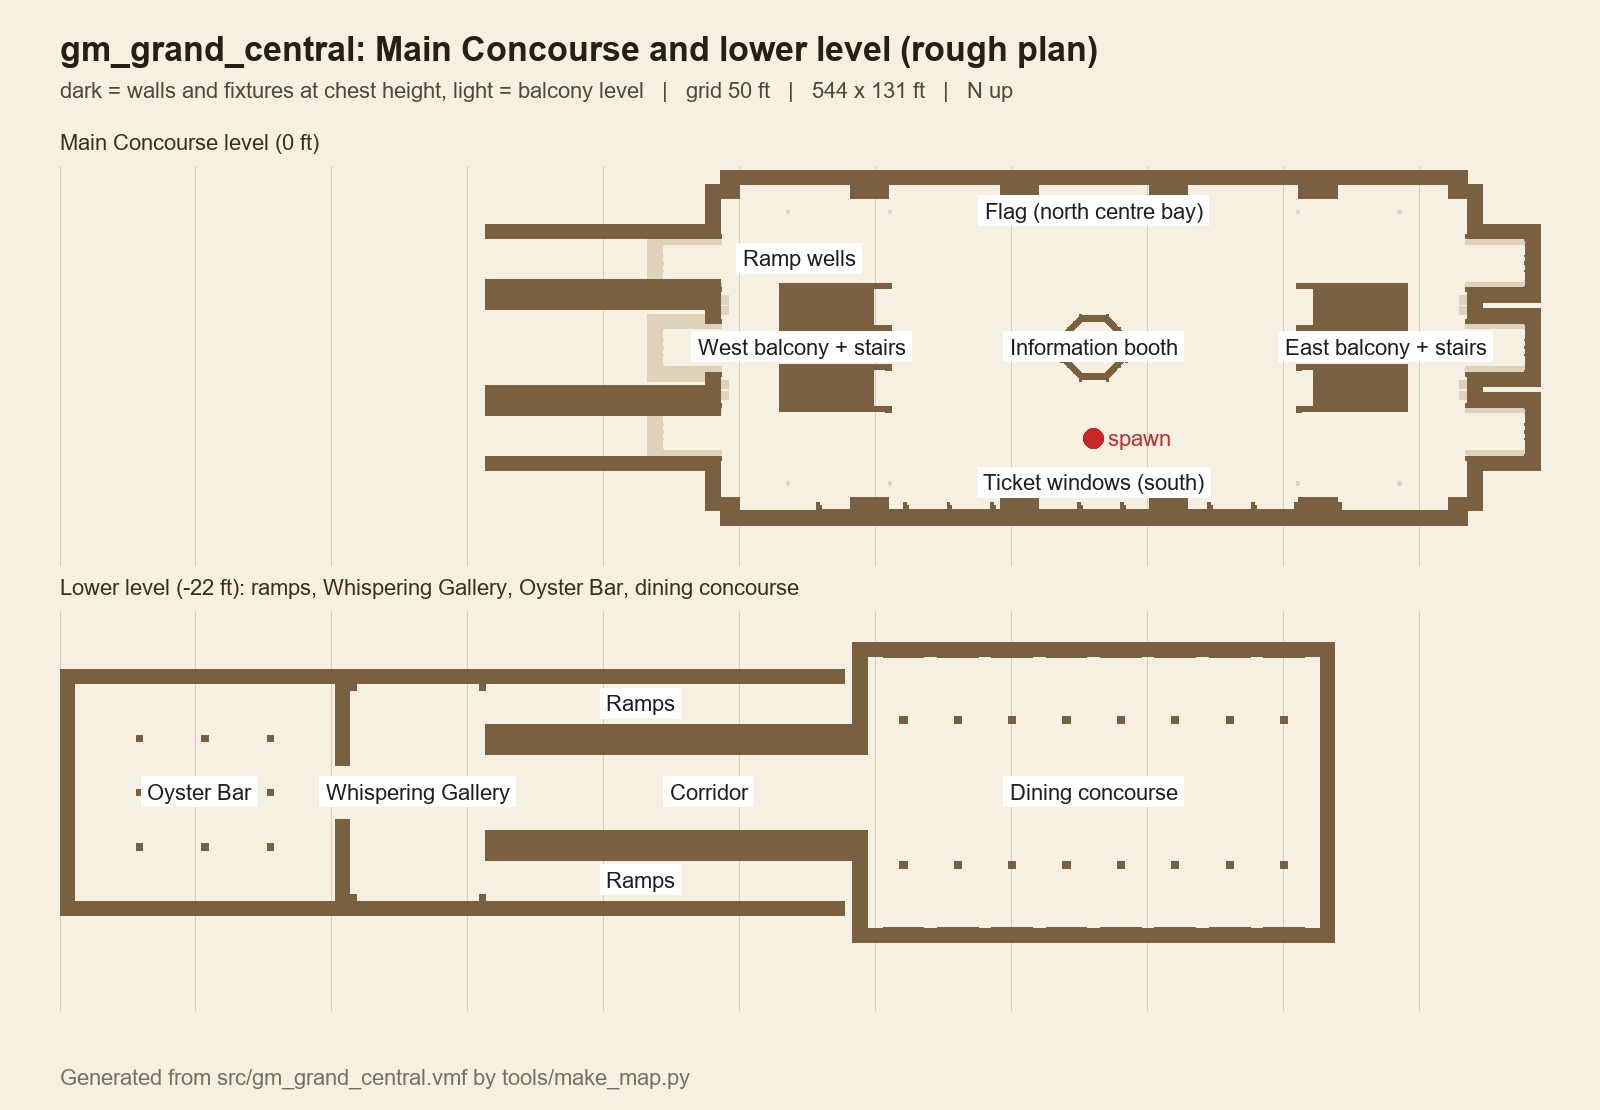
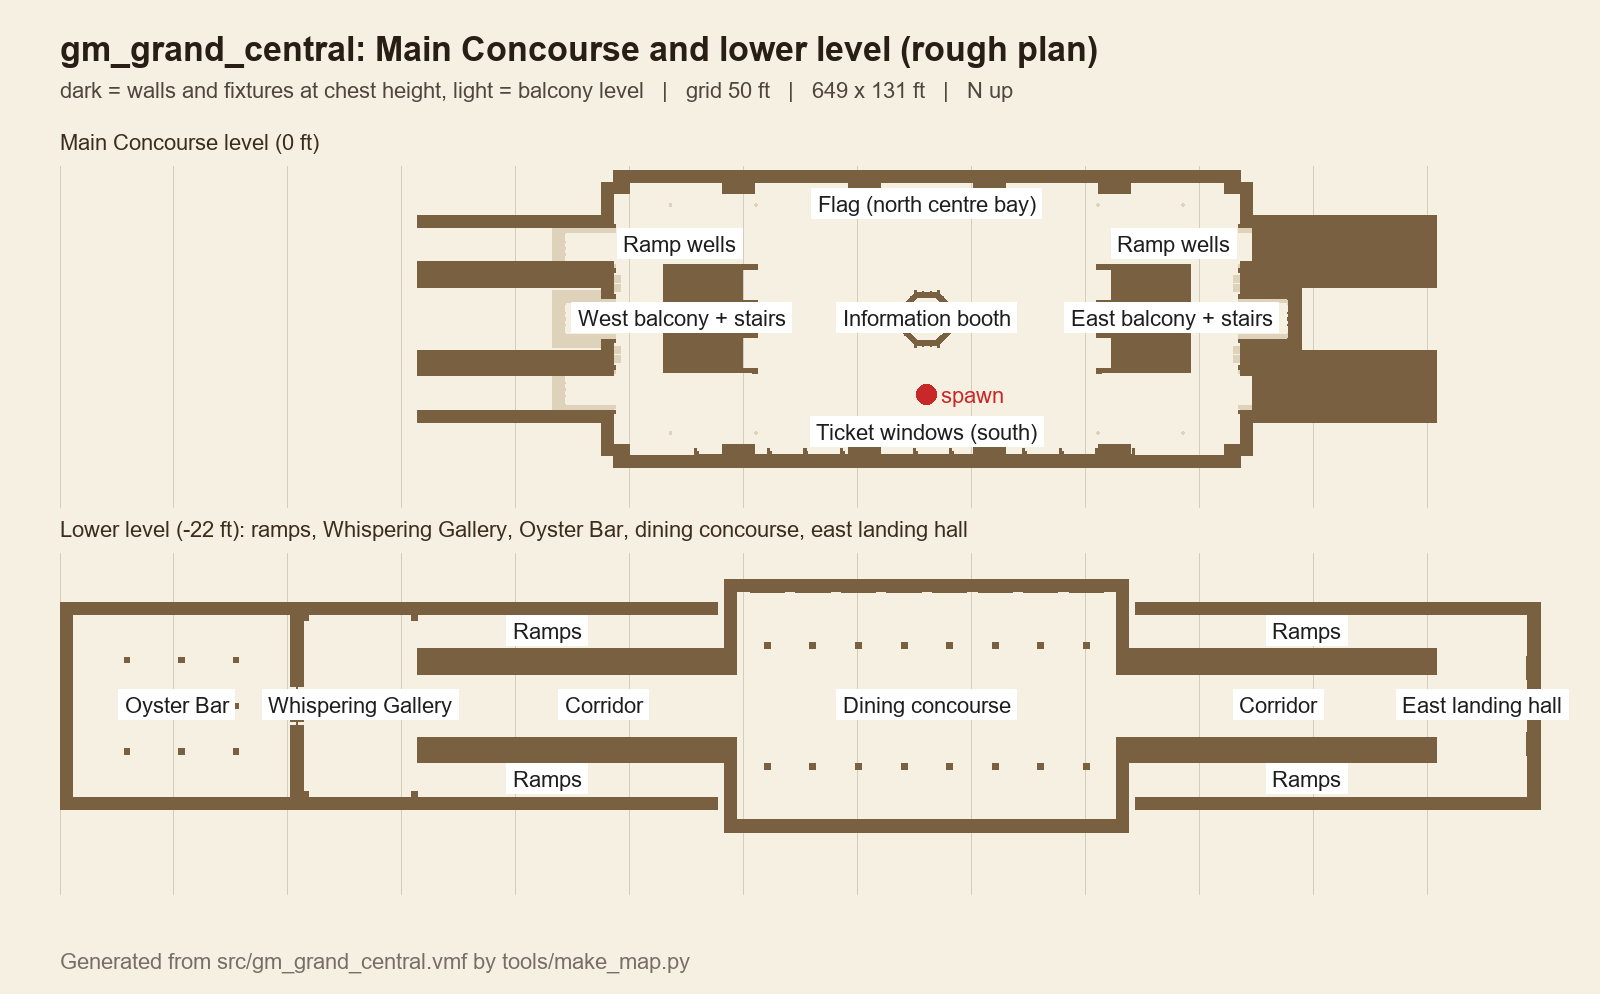
Release 0.2.0: lower level in README, wiki, level map and Workshop description

Changed region(s): [[0.0312, 0.1559, 1.0, 0.8732], [0.0312, 0.0312, 0.6875, 0.1559], [0.0312, 0.9668, 0.4375, 0.998]]

diff --git a/tools/make_map.py b/tools/make_map.py
@@ -66,9 +66,10 @@ d.text((60, 78), f"dark = walls and fixtures at chest height, light = balcony le
 cx0 = -1650  # concourse west wall
 panel(130, floor, balc, "Main Concourse level (0 ft)",
       (("Information booth", 0, 0), ("Ticket windows (south)", 0, -600), ("Flag (north centre bay)", 0, 600),
-       ("West balcony + stairs", cx0 + 360, 0), ("East balcony + stairs", -cx0 - 360, 0), ("Ramp wells", -1300, 390)), spawn)
-panel(130 + PH, low, (), "Lower level (-22 ft): ramps, Whispering Gallery, Oyster Bar, dining concourse",
+       ("West balcony + stairs", cx0 + 360, 0), ("East balcony + stairs", -cx0 - 360, 0), ("Ramp wells", -1300, 390), ("Ramp wells", 1300, 390)), spawn)
+panel(130 + PH, low, (), "Lower level (-22 ft): ramps, Whispering Gallery, Oyster Bar, dining concourse, east landing hall",
       (("Dining concourse", 0, 0), ("Ramps", -2000, 390), ("Ramps", -2000, -390), ("Corridor", -1700, 0),
+       ("Ramps", 2000, 390), ("Ramps", 2000, -390), ("Corridor", 1850, 0), ("East landing hall", 2924, 0),
        ("Whispering Gallery", -2984, 0), ("Oyster Bar", -3950, 0)))
 d.text((60, H-45), "Generated from src/gm_grand_central.vmf by tools/make_map.py", fill=(120, 110, 100), font=f)
 OUT.parent.mkdir(parents=True, exist_ok=True); img.save(OUT); print("wrote", OUT, len(floor), "+", len(low), "brushes")

diff --git a/ai-docs/HANDOFF.md b/ai-docs/HANDOFF.md
@@ -1,7 +1,7 @@
 # HANDOFF: gm_grand_central
 
-Status: in progress (0.1.0 released: Workshop 3845077025 public, GitHub v0.1.0)
-Updated: 2026-11-23 (late)
+Status: in progress (0.2.0 released 2026-11-24: lower level; Workshop 3845077025, GitHub v0.2.0)
+Updated: 2026-11-24
 
 - Prompt: plans/2026-11-23-gcs-gmod-continue-prompt.md
 - Plan: plans/gcs-gmod-plan.md
@@ -114,10 +114,10 @@ Updated: 2026-11-23 (late)
 - True groin vaults (2026-11-23): groin() splits the plan along the diagonals and each triangle follows the barrel whose arch stands on its wall (_slab: convex xy polygon from a sloped plane up to a flat top). Gallery wall arches now read as lunettes; the Oyster Bar shows real groin lines. Clean full compile, shots/20261123-2304 (whisper.jpg, oyster.jpg).
 - Area 2 detail pass 2 (2026-11-23): dining booth has a brass column and four-faced opal clock (gcs/clock, z -150..-120 so the dial tiles align); Oyster Bar entrance has a bronze OYSTER BAR band in the opening head (oysterbar.vtf from make_board.py, FACEUV _oysterbar_uv), oak posts, transom and amber side lights; oak-topped cream counters with stools along both Oyster Bar long walls. Anything at the gallery wall above Z+120 sits inside the groin's springing; keep wall details below it. New cameras ob_entry, dining_clock, ob_counter. Clean full compile, shots/20261123-2259.
 - East ramps (2026-11-23): the ramp loop in lower_level() mirrors to the east end (e=-1); east ramps descend under the east wall's side arches to a coffered landing hall (EAST_D 40 ft) with three lit brass doors on its east wall (sealed until the platforms, area 4), and a corridor runs west into the dining concourse through a new opening in its east wall. Cameras east_ramp, east_down, east_land. Clean full compile, shots/20261123-2308.
-- Then: area 2 is playable end to end. Next: make_map.py labels for the lower level, README/wiki/Workshop update and release 0.2.0; then area 3 (Vanderbilt Hall).
+- Release 0.2.0 (2026-11-24): level map labels both levels incl. east ramps/landing hall; README lower-level shots (shots/20261124-0749), wiki Changelog/Roadmap, Workshop gma + description + 5 new previews (the old 0.1.0 map preview is still there: AddItemPreviewFile appends; remove it by hand or add a RemoveItemPreview call to workshop_update.py), tag v0.2.0 with the .gma. The build/ folder must be recreated per worktree: build/addon/addon.json + maps/gm_grand_central.bsp, then gmad create.
+- NEXT: area 3, Vanderbilt Hall and the 42nd Street passage (refs and a plan first; join it through a real opening on the concourse south side).
 - 2026-11-23 Mark: chain 20 sessions building the areas joined to the concourse (plan areas 2-6) with images, maps and models; update README, wiki, Workshop and release after each area. Start: area 2, dining concourse below the main floor via the ramps (find a floor plan and photos first; open a ramp opening in the concourse).
 - Fold tools/workshop_update.py and the gmad/gmpublish route into modwright (its repo, worktree, tests, PR) - modwright has no GMod publishing guidance.
-- Update the wiki Changelog/Home with the Workshop link.
 - Wiki is live (notes/2026-11-23-github-wiki.md); update it from docs/wiki/ when the map changes.
 1. Zodiac figures are recognisable silhouettes now; finer line drawings inside them (eyes, fur, folds) could follow. Lunette hoods have voussoirs and keystones; garland carving would be a normal map.
 2. Booth interior is in and brighter; clerks' props could follow. Ticket windows have TICKETS plaques and marble reveals and segmental arched heads and bracket lamps; clerks could follow.

diff --git a/README.md b/README.md
@@ -4,7 +4,7 @@
 
 **Play it:** [Steam Workshop: Grand Central Terminal (gm_grand_central)](https://steamcommunity.com/sharedfiles/filedetails/?id=3845077025)
 
-A Garry's Mod map of the Main Concourse of Grand Central Terminal in New York, built at true scale (1 ft = 12 units). It's a work in progress. The concourse comes first; the dining concourse, Vanderbilt Hall, the platforms and the 42nd Street facade come after it (see the [plan](ai-docs/plans/gcs-gmod-plan.md)).
+A Garry's Mod map of the Main Concourse and the lower level of Grand Central Terminal in New York, built at true scale (1 ft = 12 units). It's a work in progress. The concourse and the dining level are in; Vanderbilt Hall, the platforms and the 42nd Street facade come after it (see the [plan](ai-docs/plans/gcs-gmod-plan.md)).
 
 The map is written as VMF text by a Python script, not drawn in Hammer. Every custom texture (the zodiac vault, the marble floor, the ashlar, the clock face, the departure board) is drawn procedurally by a script in `tools/`, with colours sampled from openly licensed photos of the real building.
 
@@ -18,9 +18,17 @@ Screenshots from release 0.1.0 (shots/20261123-2134):
 | ![Departure board](docs/board.jpg) | ![Flag](docs/flag.jpg) |
 | ![West stairs](docs/stairs_west.jpg) | ![West arcade](docs/arcade_west.jpg) |
 
+Lower level, added in 0.2.0 (shots/20261124-0749):
+
+| | |
+|---|---|
+| ![Ramp down](docs/ramp_down.jpg) | ![Whispering Gallery](docs/whisper.jpg) |
+| ![Oyster Bar](docs/oyster.jpg) | ![Dining concourse](docs/dining.jpg) |
+| ![Dining concourse booth](docs/dining_clock.jpg) | ![East ramp](docs/east_down.jpg) |
+
 ### Level map
 
-![Rough plan of the Main Concourse](docs/level-map.png)
+![Rough plan of the Main Concourse and the lower level](docs/level-map.png)
 
 Drawn from the map source by `tools/make_map.py`: walls and fixtures at chest height, balconies in light tone, red dots for the two spawns.
 
@@ -32,6 +40,7 @@ Drawn from the map source by `tools/make_map.py`: walls and fixtures at chest he
 - The information booth, with its four-faced opal clock
 - Double staircases at both ends, balconies, and arcades at floor and balcony level
 - Ticket windows, a dot-matrix departure board, 16 chandeliers, and the flag
+- The lower level (0.2.0): ramps from both ends of the concourse, the Whispering Gallery under a Guastavino tile groin vault, the Oyster Bar with its tiled vaults, counters and stools, the dining concourse with a coffered ceiling and a small clock booth, and an east landing hall
 
 ## Building
 

diff --git a/docs/wiki/Roadmap.md b/docs/wiki/Roadmap.md
@@ -1,7 +1,7 @@
 The areas get built in this order. Each one goes through blockout, a playable compile, detail, lighting and optimisation.
 
-1. **Main Concourse** (in progress). It's done when a screenshot from the west balcony could pass for the real place at a glance, the map compiles with no leaks, and it holds 60 fps on a mid-range PC.
-2. The dining concourse level below, with the ramps, the Whispering Gallery's Guastavino tile arches and the Oyster Bar.
+1. **Main Concourse** (released in 0.1.0). It's done when a screenshot from the west balcony could pass for the real place at a glance, the map compiles with no leaks, and it holds 60 fps on a mid-range PC.
+2. **Lower level** (released in 0.2.0): the dining concourse level below, with the ramps, the Whispering Gallery's Guastavino tile arches and the Oyster Bar.
 3. Vanderbilt Hall and the 42nd Street entrance passage.
 4. Upper-level track platforms, with a static train car or two to walk through.
 5. The exterior: the 42nd Street facade with the Glory of Commerce group and its clock, the Park Avenue Viaduct, and a Midtown skybox.

diff --git a/docs/wiki/Changelog.md b/docs/wiki/Changelog.md
@@ -1,4 +1,13 @@
-## 2026-11-23
+## 0.2.0 (2026-11-24)
+
+- The lower level, 22 ft below the concourse: ramps from the concourse floor at both ends, under the balconies' side arches.
+- The Whispering Gallery under a true groin vault in pale herringbone Guastavino tile, with corner piers, brass handrails and a crown lamp.
+- The Oyster Bar: four by four tiled groin vaults on piers, a bronze OYSTER BAR sign in the entrance, oak counters with stools and pendant lamps.
+- The dining concourse: pylons, a coffered ceiling with brass lamps, lit shop fronts and a small booth with a four-faced clock.
+- An east landing hall with three sealed brass doors (they will lead to the platforms).
+- The level map shows both levels with labels.
+
+## 0.1.0 (2026-11-23)
 
 - The concourse at true scale with a flattened barrel vault, five bays per long wall, pilasters, a gold cornice and a modillion band.
 - Procedural textures: marble floor, limestone ashlar, the zodiac vault mural with outlined constellations, coffered arch soffits and window glass.

diff --git a/ai-docs/log.md b/ai-docs/log.md
@@ -73,3 +73,4 @@
 - 2026-11-23: groin() is now a true groin vault (diagonal split, _slab helper); gallery and Oyster Bar fixed. Clean full compile, shots/20261123-2304. Worktree ../gcs-gmod-area2b.
 - 2026-11-23: East ramps mirrored from the west ones, landing hall and corridor into the dining concourse; clean full compile, shots/20261123-2308. Worktree ../gcs-gmod-eastramps.
 - 2026-11-24: chain stopped after 5 sessions as "no-progress": chain_loop fingerprints the local HANDOFF.md, but sessions merge via worktrees so the shared clone never changes. Fix: tools/chain_stop.py (fingerprint = origin/main head) as --stop-cmd; restarted for the remaining 25. Chainwright gap: default check should follow the remote branch.
+- 2026-11-24: Release 0.2.0 (lower level). Full compile clean, shots/20261124-0749, map labels east side, README/wiki/Workshop updated. build/ is gitignored and lives per worktree, so it has to be rebuilt each release (addon.json type map, tags scenic+realism).
